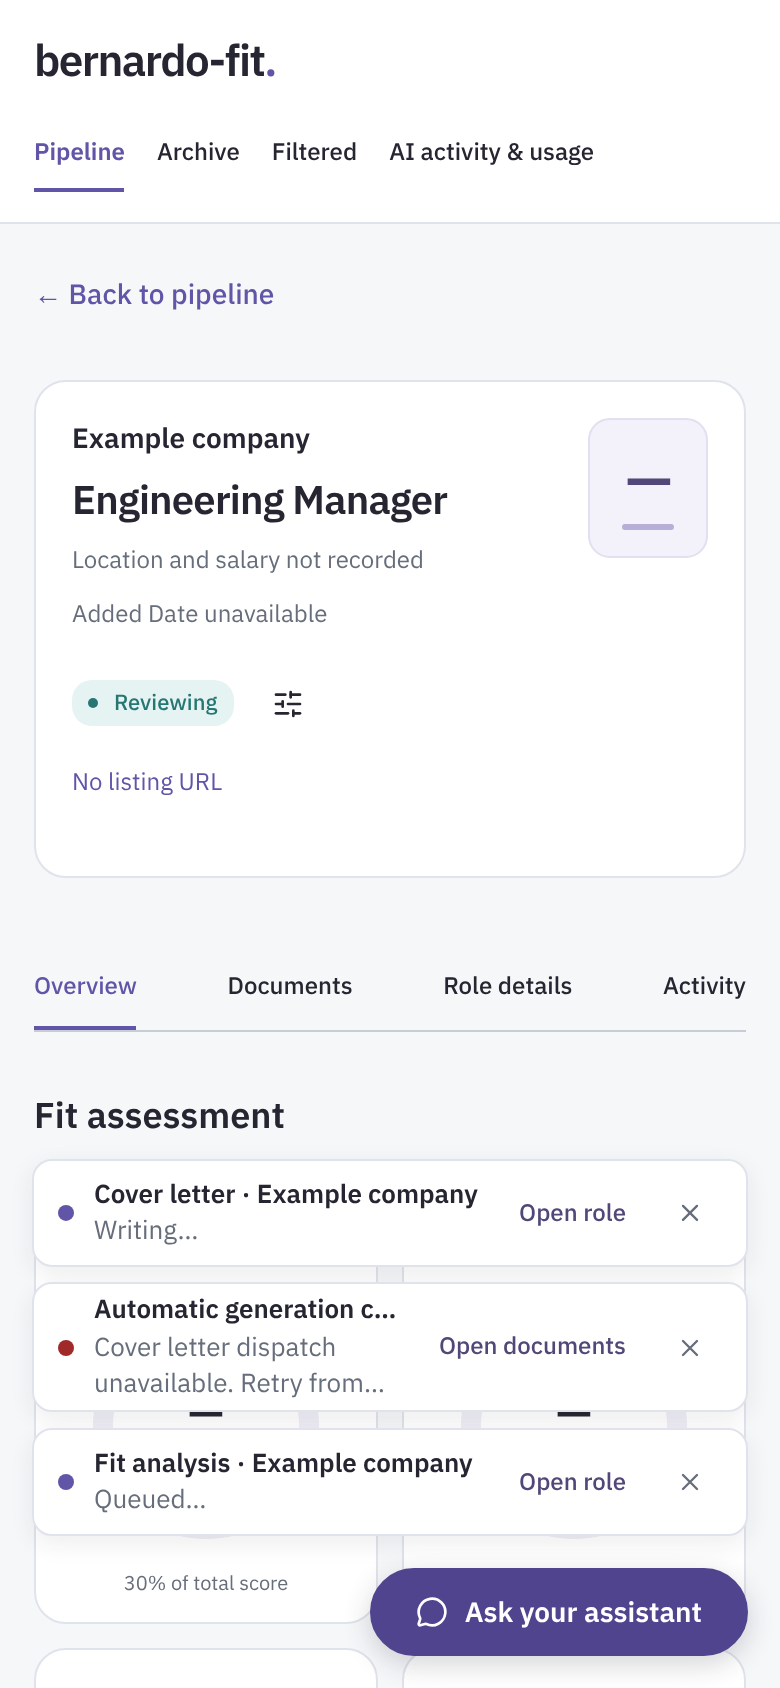
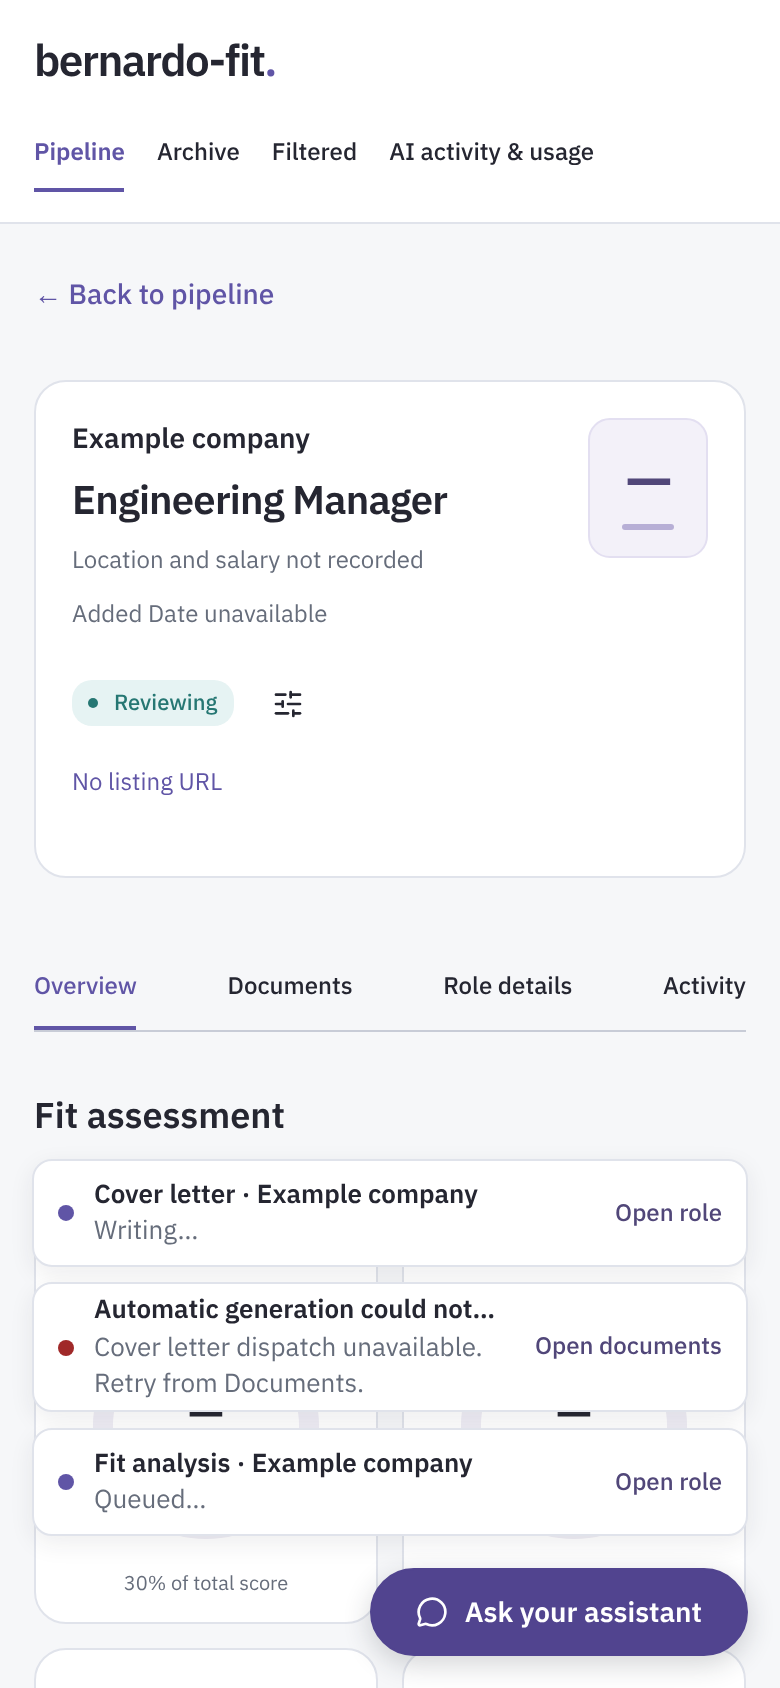
Drop the toast close button in favour of swiping
Open links sit flush right; a Dismiss control appears only on keyboard focus.

Claude-Session: https://claude.ai/code/session_01S5bYWVwGVHVMi2BEWWPGxy

diff --git a/public/task-ui.css b/public/task-ui.css
@@ -2,19 +2,19 @@
 [data-sonner-toaster].task-toast-viewport{z-index:1000;font:13px/1.4 'IBM Plex Sans',system-ui,sans-serif}
 [data-sonner-toaster].task-toast-viewport [data-sonner-toast]{width:var(--width)}
 [data-sonner-toaster].task-toast-viewport [data-sonner-toast][data-expanded=false][data-front=false] .task-toast>*{opacity:0}
-.task-toast{display:flex;align-items:center;gap:10px;height:100%;min-height:52px;box-sizing:border-box;padding:8px 6px 8px 12px;background:#fff;color:#252631;border:1px solid #e0e3eb;border-radius:10px;box-shadow:0 4px 12px #25263114;overflow:hidden;overflow-wrap:anywhere}
+.task-toast{display:flex;align-items:center;gap:10px;height:100%;min-height:52px;box-sizing:border-box;padding:8px 12px;background:#fff;color:#252631;border:1px solid #e0e3eb;border-radius:10px;box-shadow:0 4px 12px #25263114;overflow:hidden;overflow-wrap:anywhere}
 .task-toast-dot{flex:none;width:8px;height:8px;border-radius:50%;background:#6055a6}
 .task-toast[data-tone=err] .task-toast-dot{background:#a02929}.task-toast[data-tone=ok] .task-toast-dot{background:#367b4c}
 .task-toast-text{flex:1;min-width:0}
 .task-toast-title{font-weight:600;white-space:nowrap;overflow:hidden;text-overflow:ellipsis}
 .task-toast-message{color:#666d7b;display:-webkit-box;-webkit-box-orient:vertical;-webkit-line-clamp:2;overflow:hidden}
 .task-toast-message:empty{display:none}
-.task-toast-actions{flex:none;display:flex;align-items:center;gap:2px}
+.task-toast-actions{flex:none;display:flex;align-items:center;gap:2px;margin-left:auto;margin-right:-8px}
 .task-toast-actions a,.task-toast-actions button{display:inline-flex;align-items:center;justify-content:center;gap:4px;min-height:32px;padding:0 8px;border:0;border-radius:6px;background:none;font:500 12px/1.4 'IBM Plex Sans',system-ui,sans-serif;color:#514779;text-decoration:none;white-space:nowrap;cursor:pointer}
 .task-toast-actions a:hover,.task-toast-actions button:hover{background:#efedf5}
-.task-toast-actions .task-toast-dismiss{min-width:32px;padding:0 9px;color:#666d7b}
-.task-toast-countdown{font-size:11px;font-variant-numeric:tabular-nums}
+.task-toast-actions .task-toast-dismiss:not(:focus){position:absolute;width:1px;height:1px;min-height:0;padding:0;overflow:hidden;clip-path:inset(50%);white-space:nowrap}
+.task-toast-actions .task-toast-dismiss{color:#666d7b}
 .task-toast-actions :focus-visible{outline:2px solid #6055a6;outline-offset:1px}
-@media(max-width:600px){[data-sonner-toaster].task-toast-viewport{width:auto}[data-sonner-toaster].task-toast-viewport [data-sonner-toast]{width:100%}.task-toast-actions a,.task-toast-actions button{min-height:44px}.task-toast-actions .task-toast-dismiss{min-width:44px}.task-toast{padding-block:4px}}
+@media(max-width:600px){[data-sonner-toaster].task-toast-viewport{width:auto}[data-sonner-toaster].task-toast-viewport [data-sonner-toast]{width:100%}.task-toast-actions a,.task-toast-actions button{min-height:44px}.task-toast{padding-block:4px}}
 @media(min-width:601px){body.admin-chat-open [data-sonner-toaster].task-toast-viewport{--offset-right:436px!important;--width:min(356px,calc(100vw - 452px))!important}}
 @media(max-width:600px){body:has(#admin-chat-root .admin-chat-launcher) [data-sonner-toaster].task-toast-viewport{--mobile-offset-bottom:calc(max(16px,env(safe-area-inset-bottom)) + 60px)!important}}

diff --git a/src/task-ui.jsx b/src/task-ui.jsx
@@ -1,4 +1,4 @@
-import React, { useEffect, useState } from 'react';
+import React, { useEffect } from 'react';
 import { flushSync } from 'react-dom';
 import { createRoot } from 'react-dom/client';
 import { useRealtimeRun } from '@trigger.dev/react-hooks';
@@ -58,20 +58,9 @@ export function taskToast(id, update, replaceId) {
     id, duration: Infinity, onDismiss: () => { if (notices.has(id)) dismissNotice(id); },
   });
 }
-function DismissCountdown({ dismissAt }) {
-  const [remaining, setRemaining] = useState(() => Math.max(0, Math.ceil((dismissAt - Date.now()) / 1000)));
-  useEffect(() => {
-    setRemaining(Math.max(0, Math.ceil((dismissAt - Date.now()) / 1000)));
-    const interval = setInterval(() => {
-      setRemaining(Math.max(0, Math.ceil((dismissAt - Date.now()) / 1000)));
-    }, 200);
-    return () => clearInterval(interval);
-  }, [dismissAt]);
-  return <span className="task-toast-countdown" aria-hidden="true">{remaining}s</span>;
-}
 function TaskNotice({ id, notice }) {
   const title = notice.title || 'Background work';
-  return <div className="task-toast" data-task-id={id} data-tone={notice.tone || 'pending'}>
+  return <div className="task-toast" data-task-id={id} data-tone={notice.tone || 'pending'} data-dismiss-at={notice.dismissAt}>
       <span className="task-toast-dot" aria-hidden="true" />
       <div className="task-toast-text">
         <div className="task-toast-title" title={title}>{title}</div>
@@ -86,10 +75,8 @@ function TaskNotice({ id, notice }) {
           if (!document.dispatchEvent(navigation)) event.preventDefault();
         }}>{notice.linkLabel || 'Open result'}</a>}
         {notice.retry && <button type="button" className="task-toast-retry" onClick={notice.retry}>Reconnect</button>}
-        <button type="button" className="task-toast-dismiss" onClick={() => dismissNotice(id)} aria-label={`Dismiss ${title}`}>
-          {notice.dismissAt && <DismissCountdown dismissAt={notice.dismissAt} />}
-          <svg viewBox="0 0 24 24" width="14" height="14" aria-hidden="true" fill="none" stroke="currentColor" strokeWidth="2" strokeLinecap="round"><path d="M18 6 6 18M6 6l12 12" /></svg>
-        </button>
+        {/* Swiping dismisses; this control appears only for keyboard focus. */}
+        <button type="button" className="task-toast-dismiss" onClick={() => dismissNotice(id)} aria-label={`Dismiss ${title}`}>Dismiss</button>
       </div>
   </div>;
 }

diff --git a/DESIGN.md b/DESIGN.md
@@ -306,7 +306,7 @@ The shared radius is 0.75rem. At the default 16px root size, the existing Tailwi
 - Chat uses its inline composer status instead of a duplicate task toast. Every other app action dispatched to Trigger shows one persistent toast keyed by its run ID (not its action button), updated from Trigger Realtime status and phase metadata through completion, failure, cancellation or expiry. Use human-readable task names and role context; keep relevant role, pipeline and result links in the toast.
 - On reload, check saved run status before restoring notifications. Restore toasts for unfinished work only; results that finished before the reload belong in the role, not in a newly opened toast.
 - Lock the corresponding action from submission until a confirmed terminal result, including after navigation, re-render and recovery on reload. Keep unrelated controls usable. A lost status connection means reconnecting, not task failure; keep the action locked while reconnecting.
-- Use Sonner for task notifications. Every notification can be dismissed manually, including running work; dismissal hides the notification without cancelling its task, releasing its action lock or reopening it on later updates or reload. Toasts never steal focus. Keep status announcements polite. Successful notifications show a visible Dismiss countdown from five seconds and automatically disappear at that deadline, even if the toast receives another update. Keep failed notifications visible until dismissed. Links and dismiss controls must be keyboard-accessible with 44px mobile targets. Toasts are minimal (decided 2026-10-09): one compact row on a white card (1px border, 10px radius, soft shadow) with a small tone dot (accent pending, green success, red failure), a one-line semibold title and a muted message of at most two lines, then compact inline actions (12px link such as Open role, and an icon-only × whose visible countdown reads “4s”). Use Sonner's own stack: newest in front, up to three visible, collapsed behind one another and expanding on hover or focus, with its enter, exit and swipe animations (reduced motion respected). The column is 356px wide, 16px from the bottom-right corner, full width less 16px gutters on phones, and moves left of the docked chat panel or above the floating chat button. Do not repeat background task phases or outcomes in the role-wide status line, document actions, or overview summary; keep inline feedback for direct edits.
+- Use Sonner for task notifications. Every notification can be dismissed manually, including running work; dismissal hides the notification without cancelling its task, releasing its action lock or reopening it on later updates or reload. Toasts never steal focus. Keep status announcements polite. Successful notifications automatically disappear five seconds after they finish, even if the toast receives another update. Keep failed notifications visible until dismissed. Links and the dismiss control must be keyboard-accessible with 44px mobile targets. Toasts are minimal (decided 2026-10-09): one compact row on a white card (1px border, 10px radius, soft shadow) with a small tone dot (accent pending, green success, red failure), a one-line semibold title and a muted message of at most two lines, then one compact 12px link such as Open role aligned to the right edge. There is no close button (decided 2026-10-09): swipe a toast away; a Dismiss control appears only when it receives keyboard focus. Use Sonner's own stack: newest in front, up to three visible, collapsed behind one another and expanding on hover or focus, with its enter, exit and swipe animations (reduced motion respected). The column is 356px wide, 16px from the bottom-right corner, full width less 16px gutters on phones, and moves left of the docked chat panel or above the floating chat button. Do not repeat background task phases or outcomes in the role-wide status line, document actions, or overview summary; keep inline feedback for direct edits.
 
 ## Editing, accessibility and responsive behaviour
 
